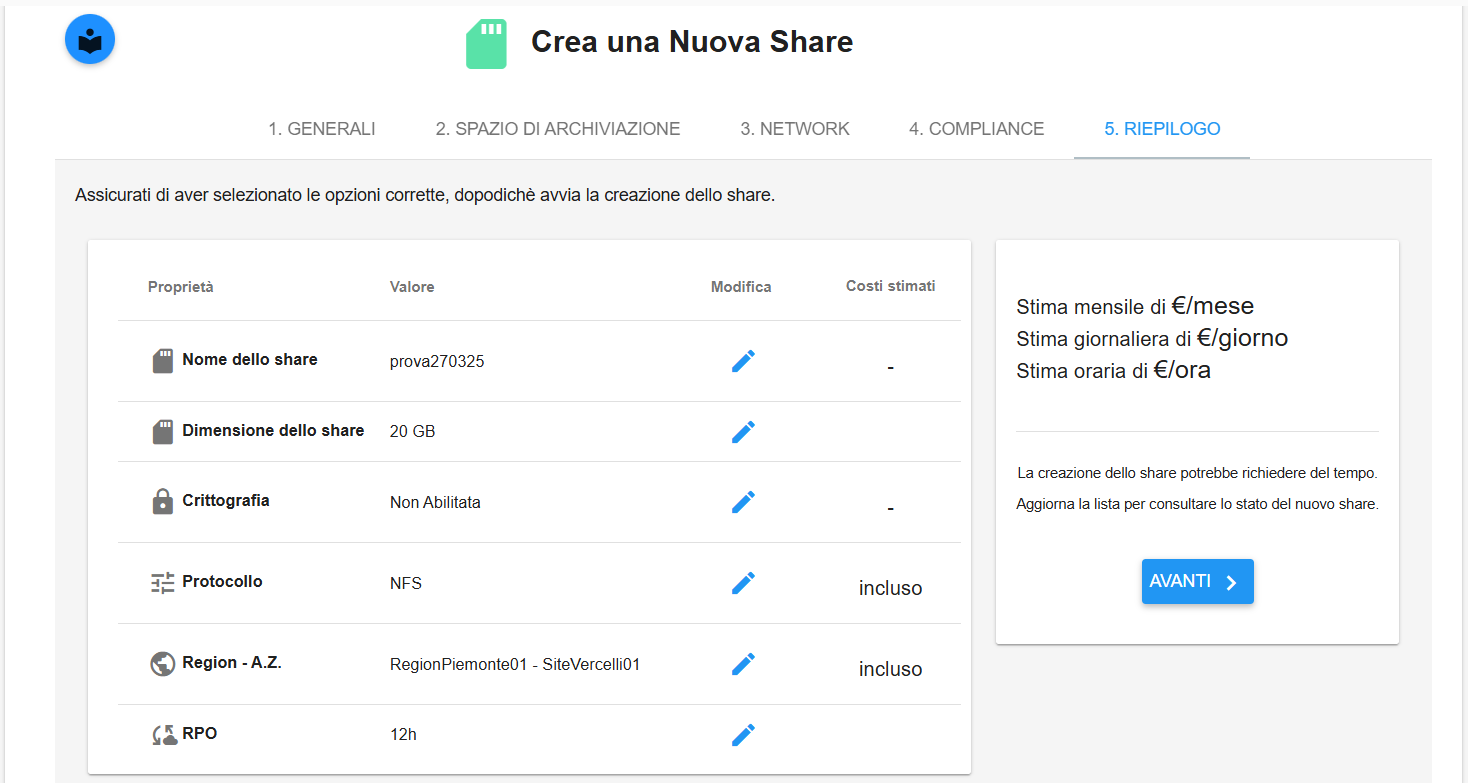
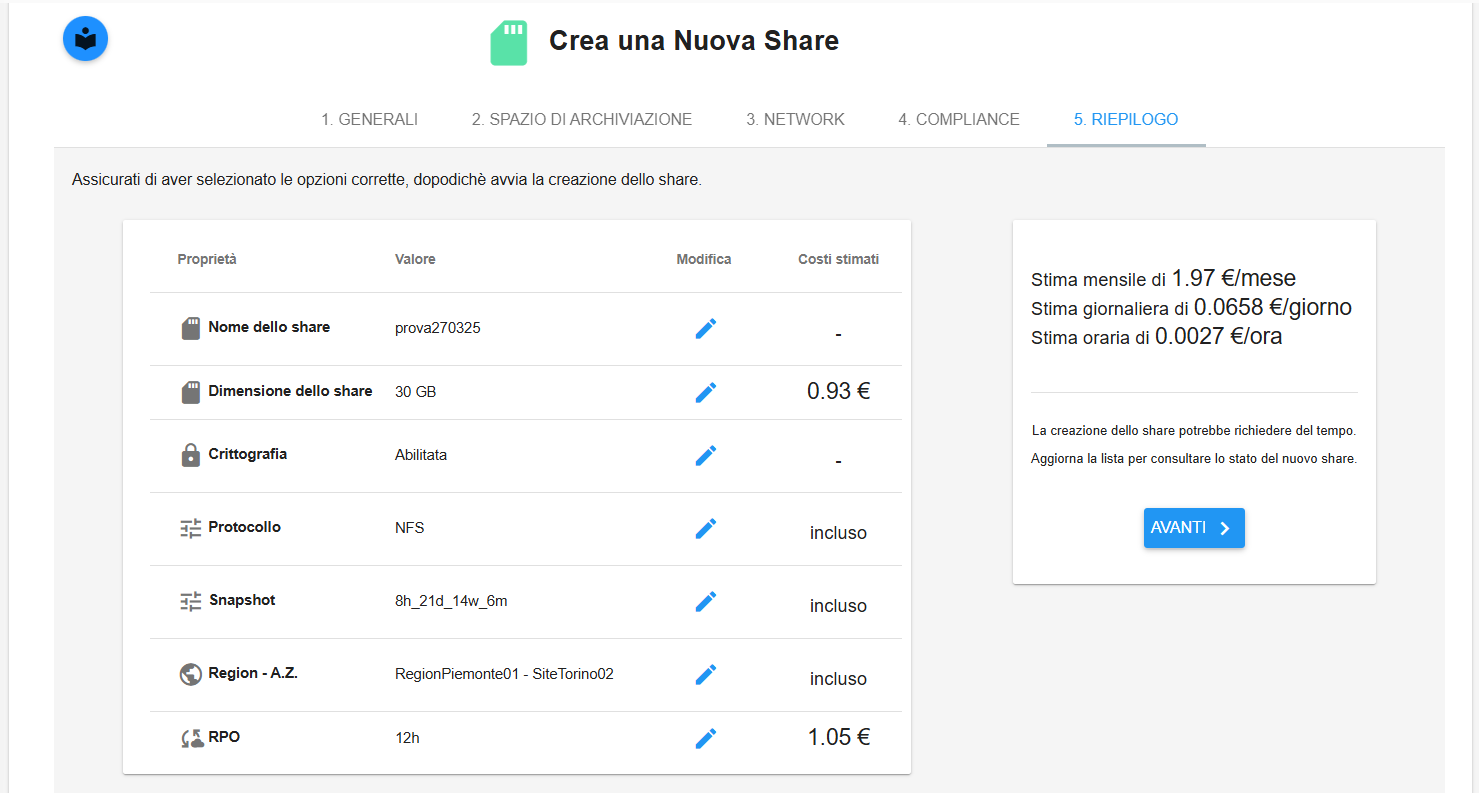
250529commit.1

diff --git a/docs/Come_fare_per/16.3_Replica_Share.rst b/docs/Come_fare_per/16.3_Replica_Share.rst
@@ -20,3 +20,32 @@ Lo share replica avrà lo stesso nome dello share di origine con l’aggiunta de
 Un messaggio in verde in alto a destra darà conferma dell'avvenuta creazione
 
 .. image:: img/16.3_Replica_Share3.png
+
+|
+
+**Modifica RPO Replica**
+************************
+
+Una volta creata la replica è possibile modificare se necessario il valore RPO impostato in creazione.
+
+Occorre selezionare una replica e cliccare su **Pannello gestione Share**
+
+.. image:: img/16.3_Replica_Share4.png
+
+|
+
+Quindi cliccare sul simbolo della matita a fianco di **RPO**
+
+.. image:: img/16.3_Replica_Share5.png
+
+|
+
+Scegliere uno dei valori proposti:
+
+.. image:: img/16.3_Replica_Share6.png
+
+|
+
+Quindi cliccare su **MODIFICA POLICY**
+
+.. image:: img/16.3_Replica_Share7.png

diff --git a/docs/Come_fare_per/16.2_Creazione_nuovo_Share.rst b/docs/Come_fare_per/16.2_Creazione_nuovo_Share.rst
@@ -14,9 +14,15 @@ Fare clic sul pulsante in alto a destra **Crea Nuovo Share**
 **Tab Generali**
 
 È stato aggiunto un controllo sul nome che non potrà iniziare per **dr-**, prefisso dedicato alle repliche.
-Come tipo di protocollo è possibile scegliere tra **NFS** o **CIFS**.
+Come tipo di **protocollo** è possibile scegliere tra **NFS** o **CIFS**
 
 .. image:: img/16.2_Creazione_Nuovo_Share2.png
+
+Relativamente alle **Snapshot Policy** scegliere fra uno dei valori in elenco
+
+.. image:: img/16.2_Creazione_Nuovo_Share2b.png
+
+.. image:: img/16.2_Creazione_Nuovo_Share2c.png
 
 |
 
